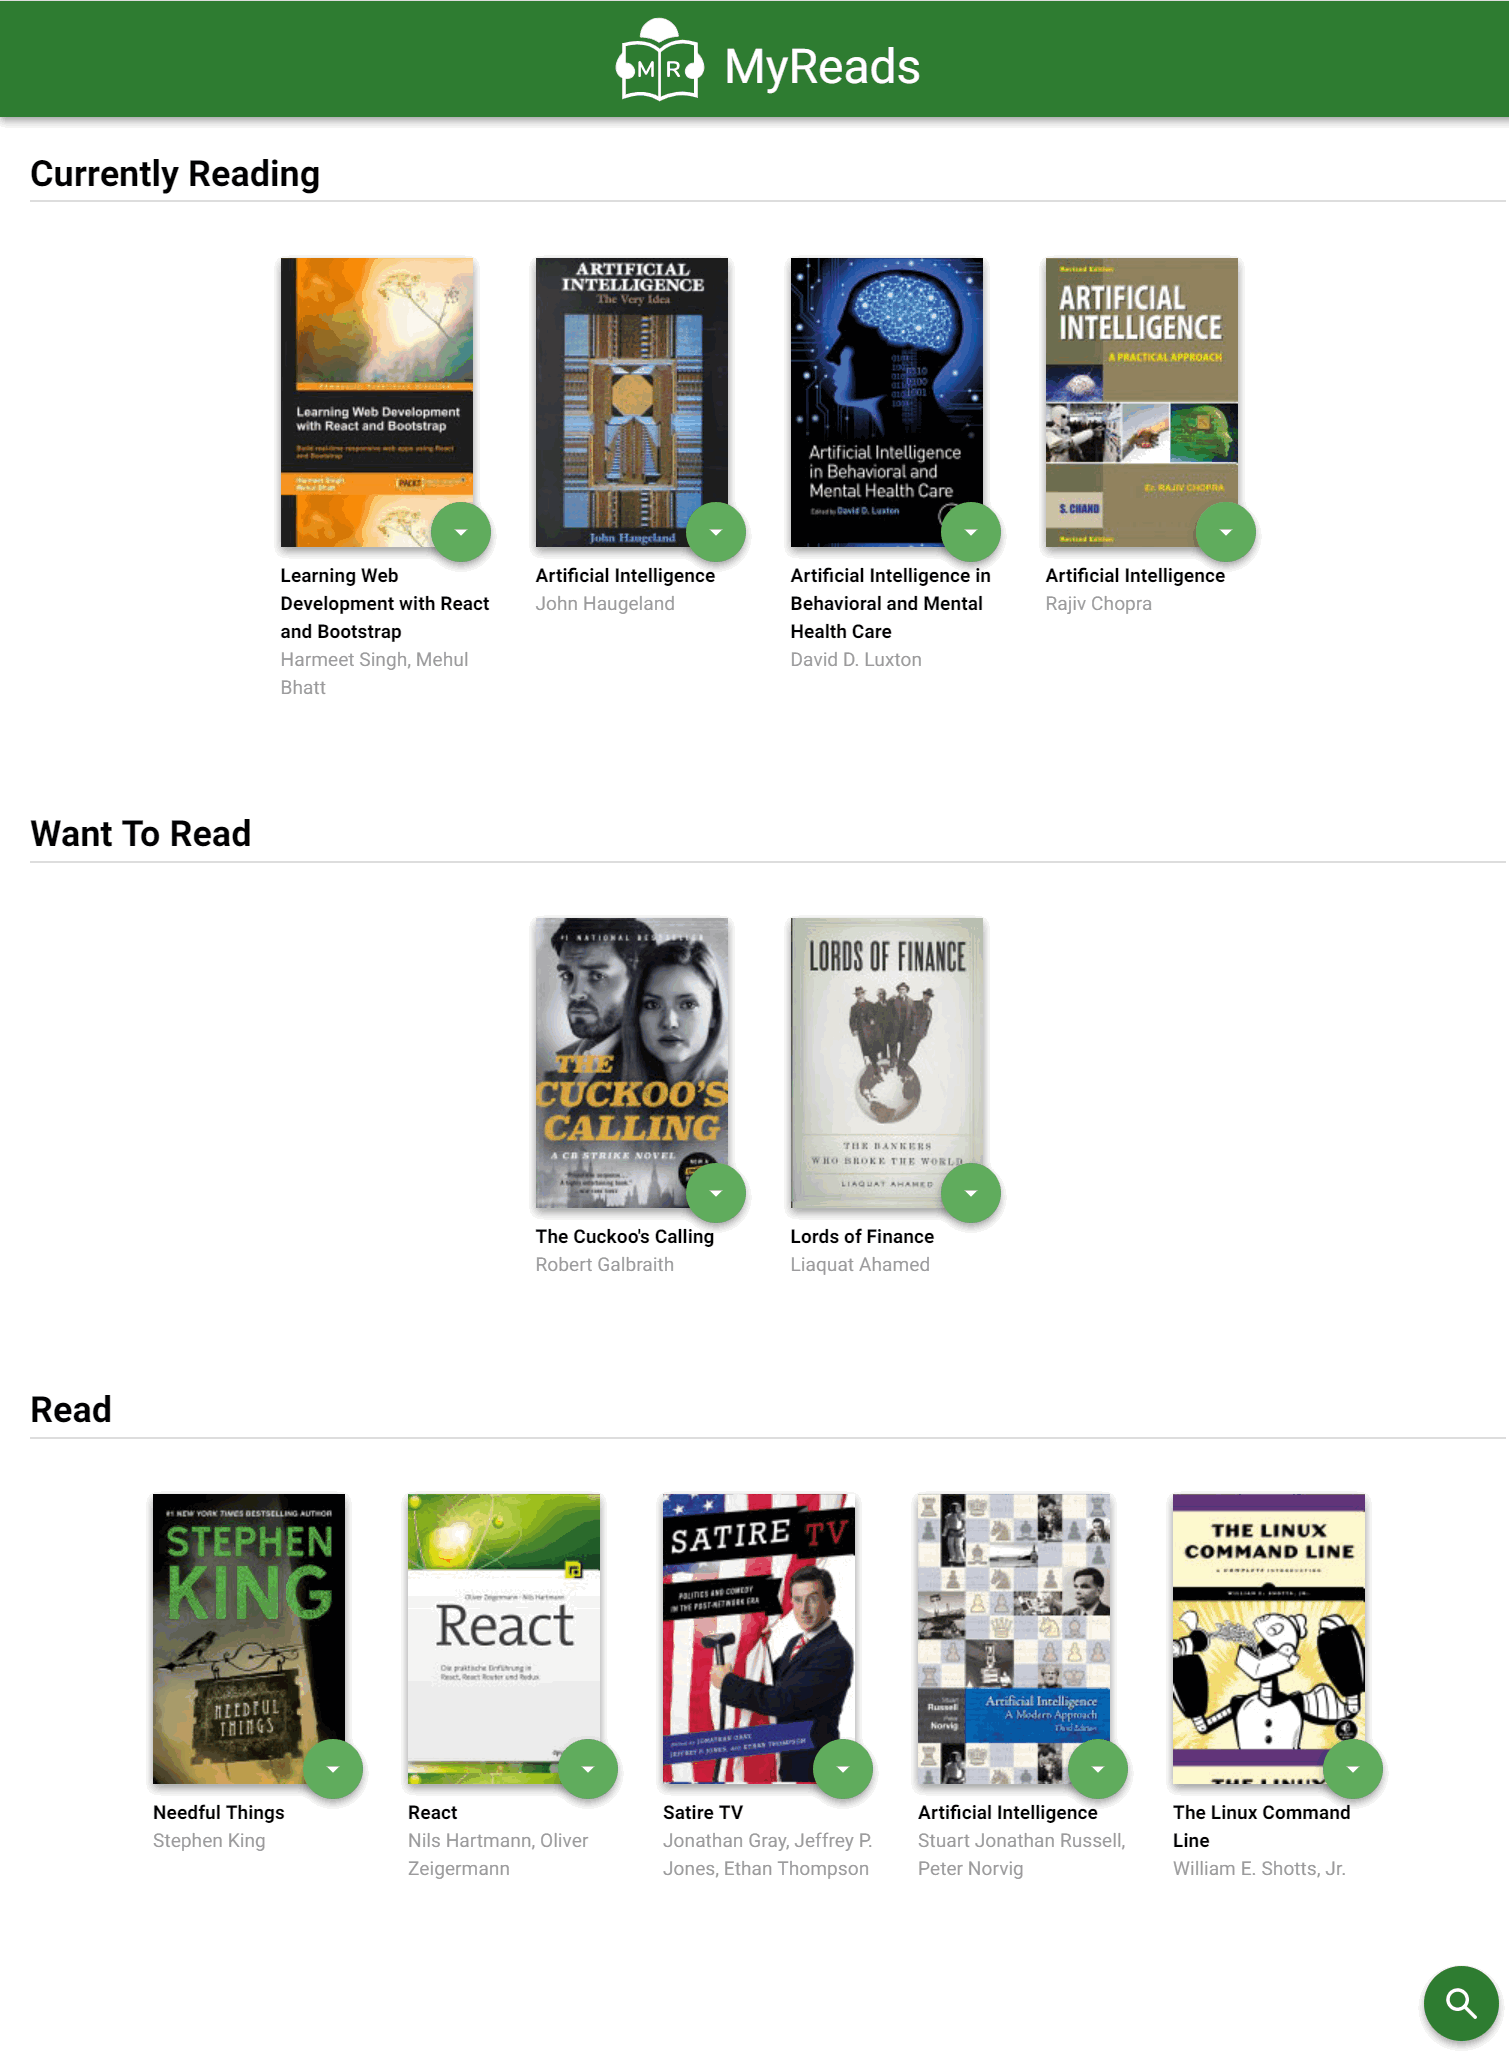
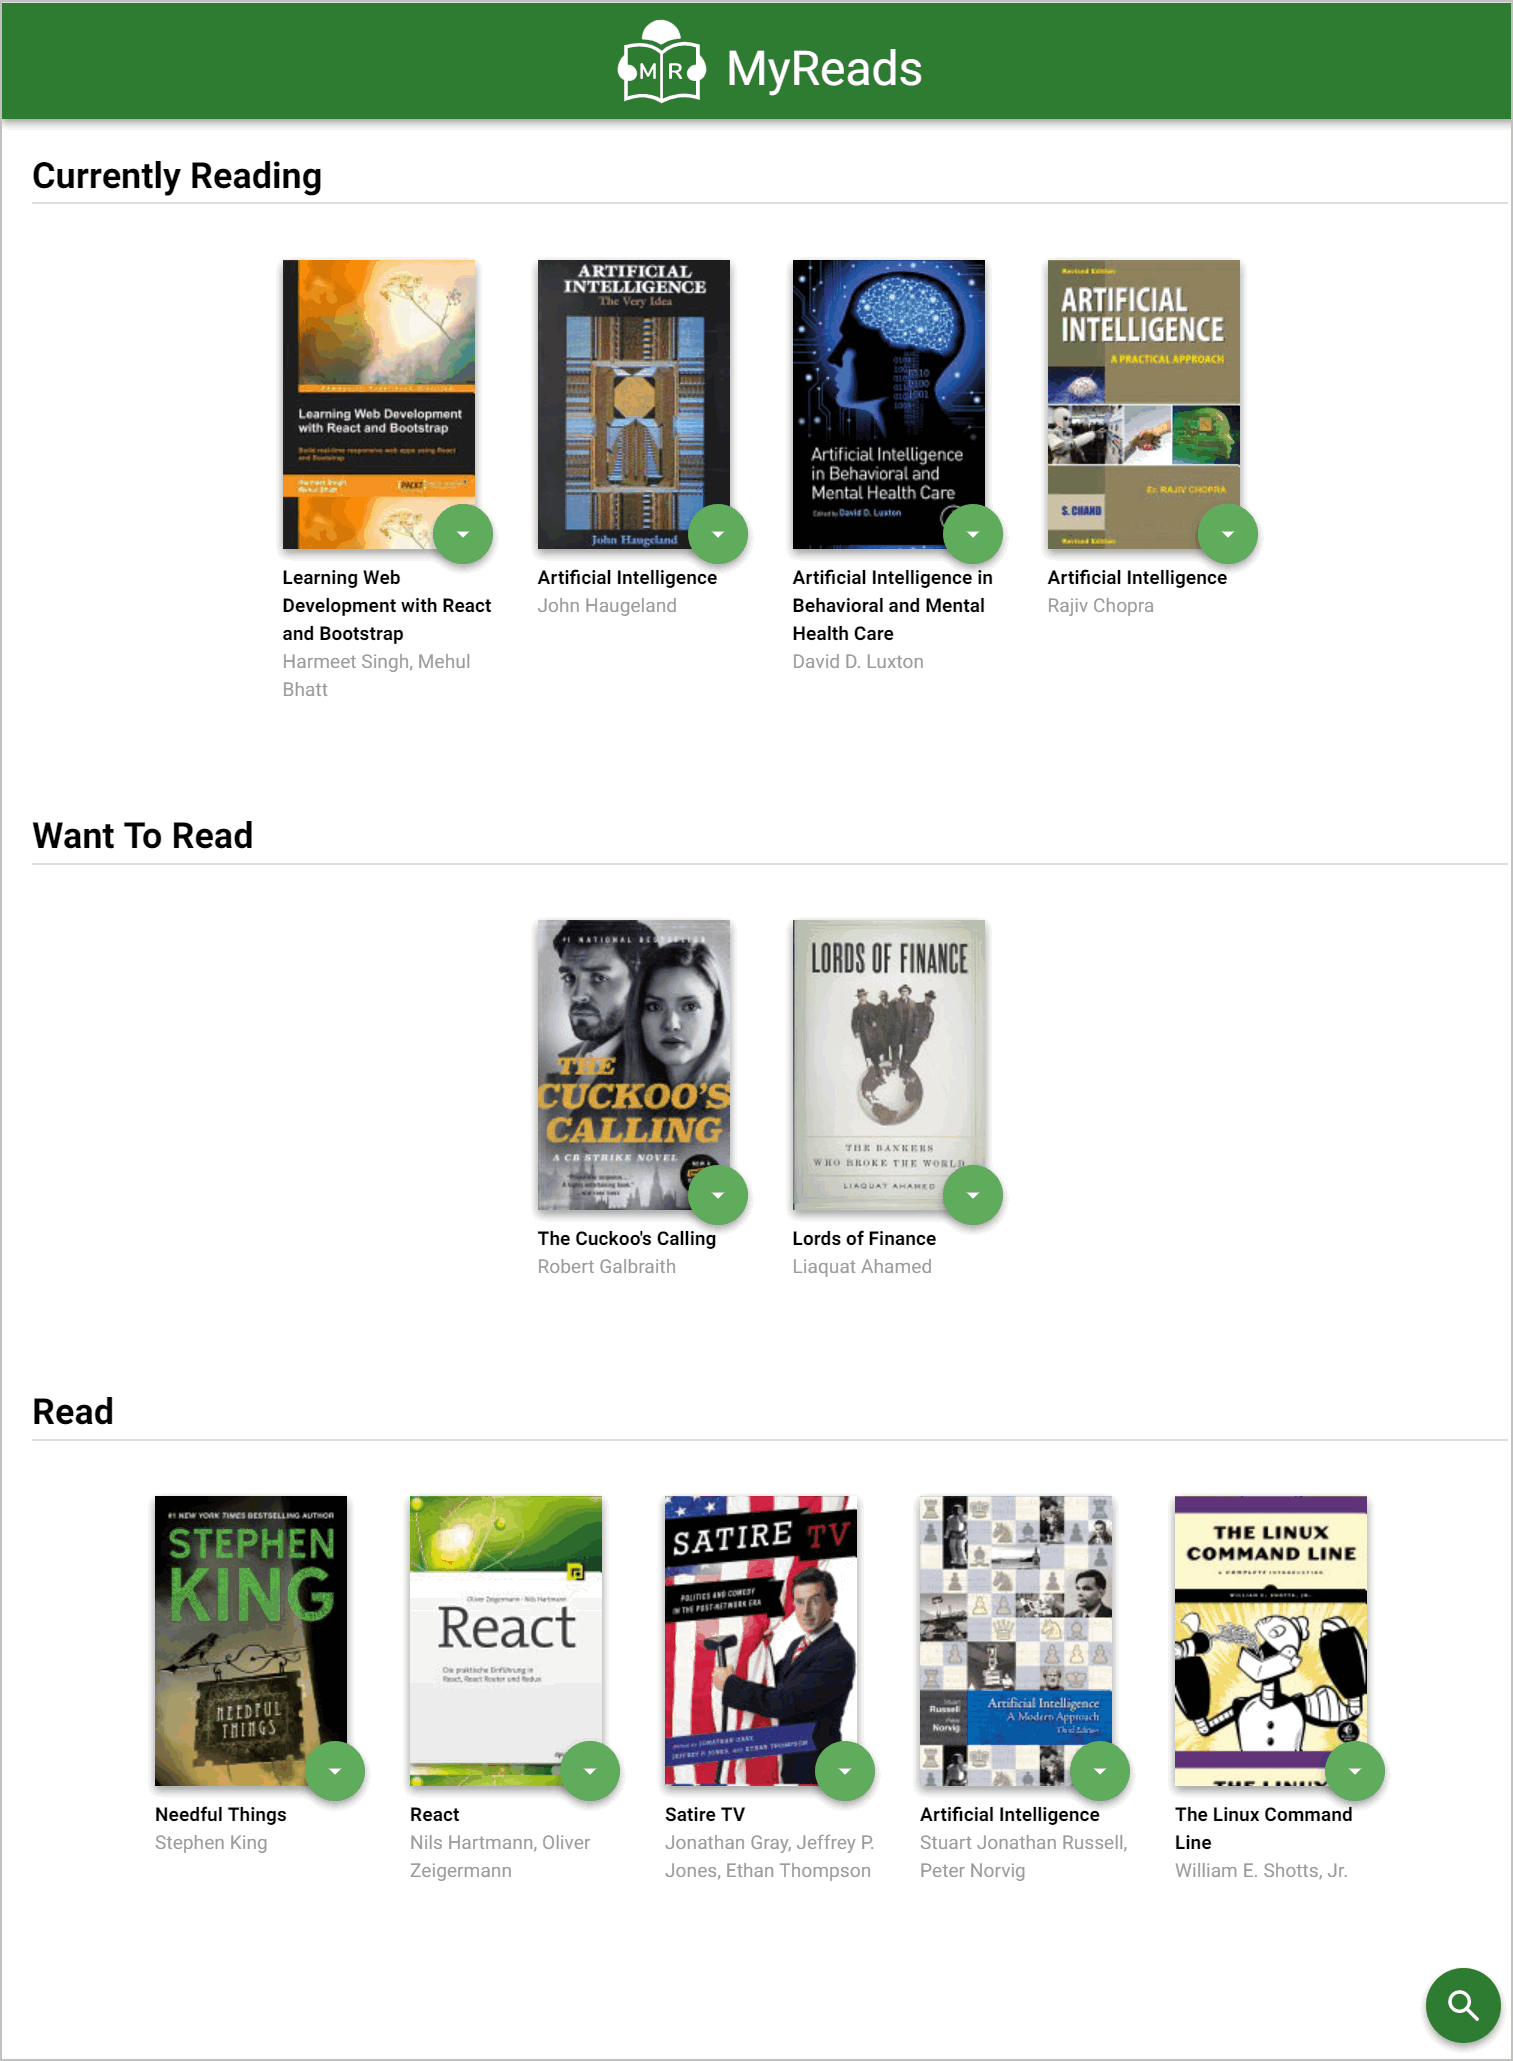
Updated README.md

diff --git a/README.md b/README.md
@@ -9,6 +9,9 @@ To run the site, perform the following steps:
 * Start the development server with `npm start`
 * Access the site locally on [http://localhost:3000](http://localhost:3000)
 
+![Screenshot of MyReads Website](https://raw.githubusercontent.com/JonUK/jk-reactnd-myreads/master/designs/myreads-screenshot.png)
+
+
 ## Backend Server
 
 To simplify your development process, we've provided a backend server for you to develop against. The provided file [`BooksAPI.js`](src/BooksAPI.js) contains the methods you will need to perform necessary operations on the backend:
